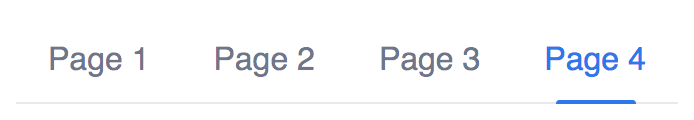
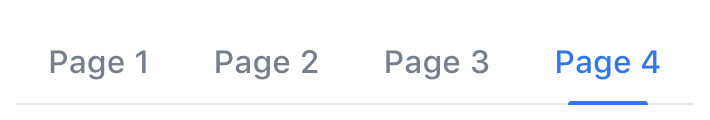
Update screenshot [skip ci]

diff --git a/packages/vaadin-tabs/README.md b/packages/vaadin-tabs/README.md
@@ -32,7 +32,7 @@
 </vaadin-tabs>
 ```
 
-[<img src="https://raw.githubusercontent.com/vaadin/vaadin-tabs/master/screenshot.png" width="347" alt="Screenshot of vaadin-tabs">](https://vaadin.com/elements/vaadin-tabs)
+[<img src="https://raw.githubusercontent.com/vaadin/vaadin-tabs/master/screenshot.png" width="355" alt="Screenshot of vaadin-tabs, using the default Valo theme">](https://vaadin.com/elements/vaadin-tabs)
 
 ## Getting Started
 
